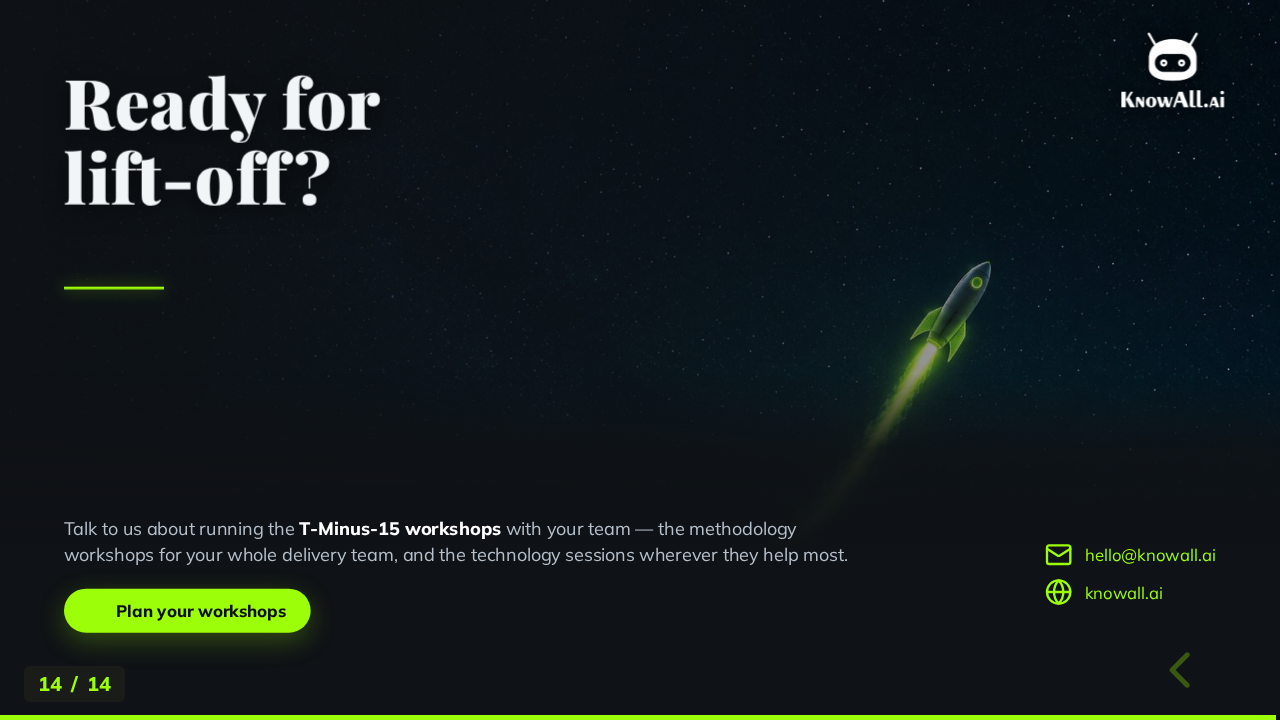
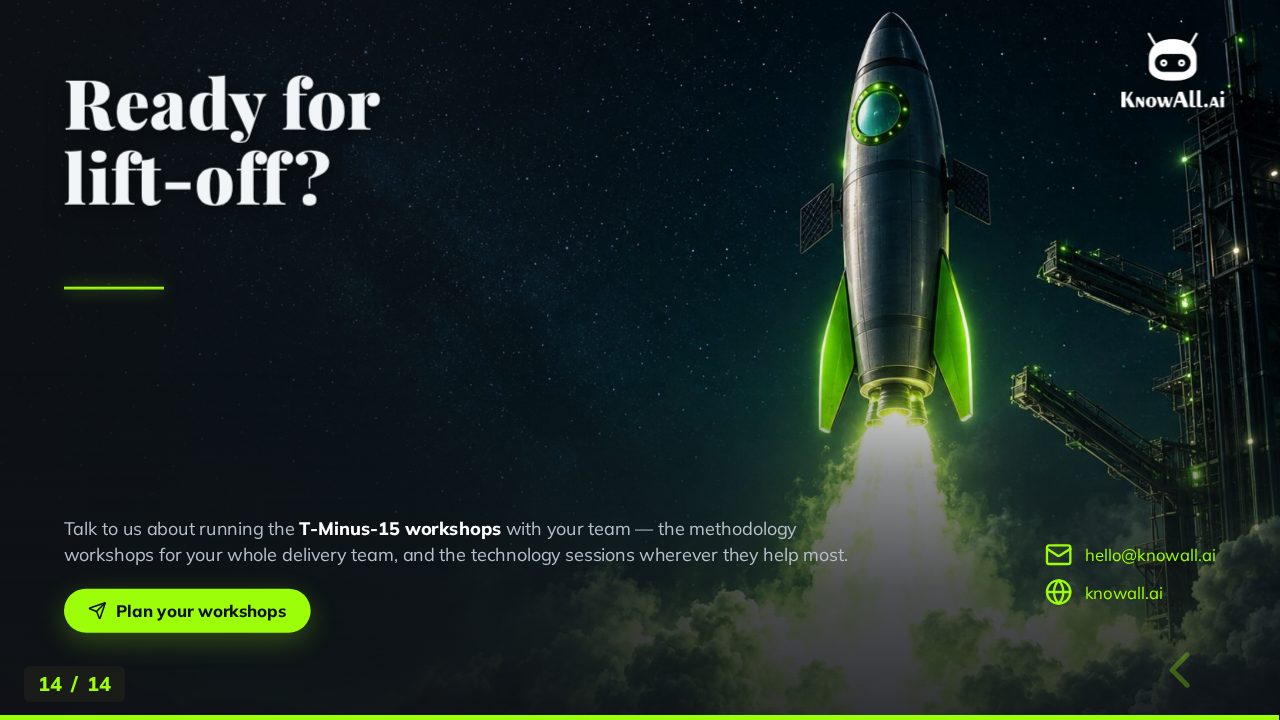
feat(presentations): full-screen lift-off on the T-Minus-15 closing slide
- New full-frame lift-off art (gpt-image, same style as the deck): the
  rocket and its exhaust fill the right of the slide, dark sky on the left
  for the headline.
- Deck-specific cta--full-art: lighter side fade and a soft foot fade
  instead of the shared solid charcoal band, so the plume glows through
  behind the pitch and contacts.
- Fix the closing button's icon: the cta partial adds the "i-" prefix, so
  pass "send", not "i-send".

diff --git a/public/presentations/tminus15-workshops.html b/public/presentations/tminus15-workshops.html
@@ -31,6 +31,34 @@
         --ws-panel: 860px;
       }
 
+      /* --- Closing slide: the lift-off fills the frame ------------------------
+         The art sits right of centre, so the side fade is lighter than the
+         shared one and stops by mid-slide; a foot shade keeps the contact
+         details legible over the bright exhaust. */
+      .cta--full-art .cta-top::before {
+        background:
+          linear-gradient(
+            90deg,
+            rgba(15, 18, 22, 0.9) 0%,
+            rgba(15, 18, 22, 0.62) 32%,
+            rgba(15, 18, 22, 0.1) 58%,
+            rgba(15, 18, 22, 0) 100%
+          ),
+          var(--deck-hero) center 0% / cover no-repeat;
+      }
+
+      /* Let the exhaust glow through the foot band: a soft fade instead of the
+         shared solid charcoal, still dark enough under the pitch and contacts. */
+      .cta--full-art .cta-bottom {
+        background: linear-gradient(
+          180deg,
+          rgba(15, 18, 22, 0) 0%,
+          rgba(15, 18, 22, 0.45) 30%,
+          rgba(15, 18, 22, 0.72) 62%,
+          rgba(15, 18, 22, 0.86) 100%
+        );
+      }
+
       /* --- Cover: the art in a left-hand panel, the copy beside it ---------- */
       .tm-cover-art {
         position: absolute;
@@ -751,7 +779,7 @@
         </section>
 
         <!-- Slide 14: CTA -->
-        <section role="region" aria-label="Slide 14 of 14: Ready for lift-off?">
+        <section class="cta--full-art" role="region" aria-label="Slide 14 of 14: Ready for lift-off?">
           <div class="cta-top">
             <h2>Ready for<br />lift-off?</h2>
             <img class="logo-dark" src="/images/logo.png" alt="KnowAll.ai" />
@@ -762,7 +790,7 @@
                 Talk to us about running the <strong>T-Minus-15 workshops</strong> with your team &mdash; the methodology workshops for your whole delivery team, and the technology sessions wherever they help most.
               </p>
               <a class="cta-button" href="mailto:hello@knowall.ai?subject=T-Minus-15%20workshops" aria-label="Email KnowAll AI about the T-Minus-15 workshops">
-                <svg class="ic" aria-hidden="true"><use href="icons.svg#i-i-send" /></svg>
+                <svg class="ic" aria-hidden="true"><use href="icons.svg#i-send" /></svg>
                 Plan your workshops
               </a>
             </div>

diff --git a/presentations-src/tminus15-workshops.html b/presentations-src/tminus15-workshops.html
@@ -7,6 +7,34 @@
         --ws-panel: 860px;
       }
 
+      /* --- Closing slide: the lift-off fills the frame ------------------------
+         The art sits right of centre, so the side fade is lighter than the
+         shared one and stops by mid-slide; a foot shade keeps the contact
+         details legible over the bright exhaust. */
+      .cta--full-art .cta-top::before {
+        background:
+          linear-gradient(
+            90deg,
+            rgba(15, 18, 22, 0.9) 0%,
+            rgba(15, 18, 22, 0.62) 32%,
+            rgba(15, 18, 22, 0.1) 58%,
+            rgba(15, 18, 22, 0) 100%
+          ),
+          var(--deck-hero) center 0% / cover no-repeat;
+      }
+
+      /* Let the exhaust glow through the foot band: a soft fade instead of the
+         shared solid charcoal, still dark enough under the pitch and contacts. */
+      .cta--full-art .cta-bottom {
+        background: linear-gradient(
+          180deg,
+          rgba(15, 18, 22, 0) 0%,
+          rgba(15, 18, 22, 0.45) 30%,
+          rgba(15, 18, 22, 0.72) 62%,
+          rgba(15, 18, 22, 0.86) 100%
+        );
+      }
+
       /* --- Cover: the art in a left-hand panel, the copy beside it ---------- */
       .tm-cover-art {
         position: absolute;
@@ -609,9 +637,10 @@
         <!-- Slide 14: CTA -->
         <!-- @include cta {
           "label": "Slide 14 of 14: Ready for lift-off?",
+          "className": "cta--full-art",
           "heading": "Ready for<br />lift-off?",
           "pitch": "Talk to us about running the <strong>T-Minus-15 workshops</strong> with your team &mdash; the methodology workshops for your whole delivery team, and the technology sessions wherever they help most.",
-          "button": { "text": "Plan your workshops", "icon": "i-send", "ariaLabel": "Email KnowAll AI about the T-Minus-15 workshops" },
+          "button": { "text": "Plan your workshops", "icon": "send", "ariaLabel": "Email KnowAll AI about the T-Minus-15 workshops" },
           "mailSubject": "T-Minus-15 workshops"
         } -->
       </div>
